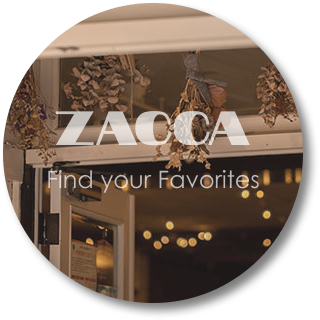
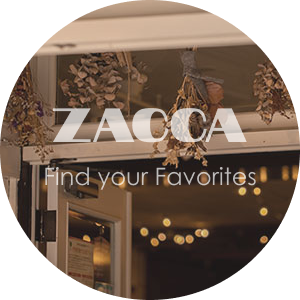
add script.js

diff --git a/css/style.css b/css/style.css
@@ -105,8 +105,12 @@ h3{
     margin-right:24px;
 }
 
-.bars{
+.gnav i{
     font-size:24px;
+}
+
+.mobile .click {
+    display:none;
 }
 
 
@@ -137,11 +141,13 @@ header:after{
 /* main */
 .MV img{
     margin:0 auto;
+    box-shadow:7px 7px 10px #686868;
+    border-radius:50%;
 }
 
 .MV {
     margin-top:100px;
-    margin-bottom:100px;
+    margin-bottom:60px;
 }
 
 /* Footer */

diff --git a/css/pc.css b/css/pc.css
@@ -75,6 +75,11 @@
         margin-top:160px;
     }
 
+    .MV img {
+        box-shadow:10px 10px 15px #686868;
+        border-radius: 50px;
+    }
+
     /* Footer */
     .footer-upper {
         display:flex;
